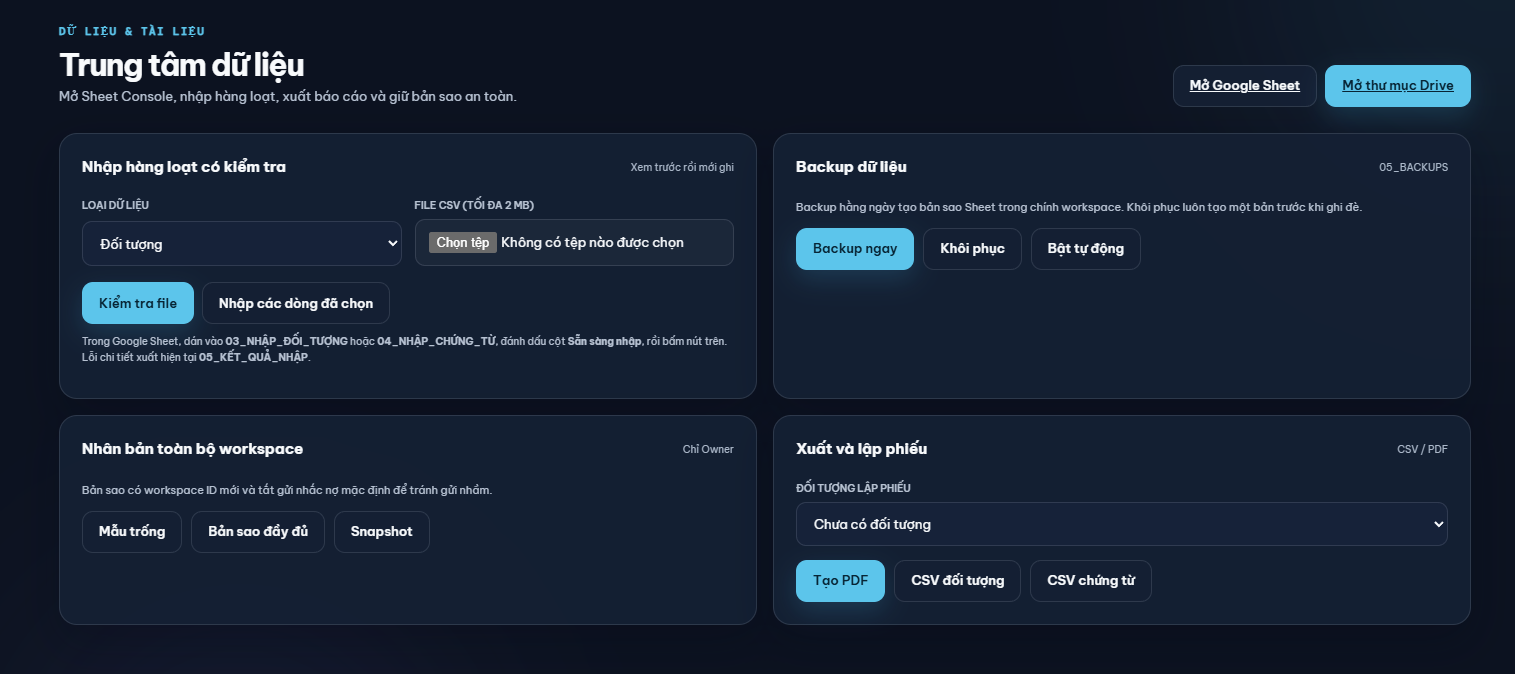
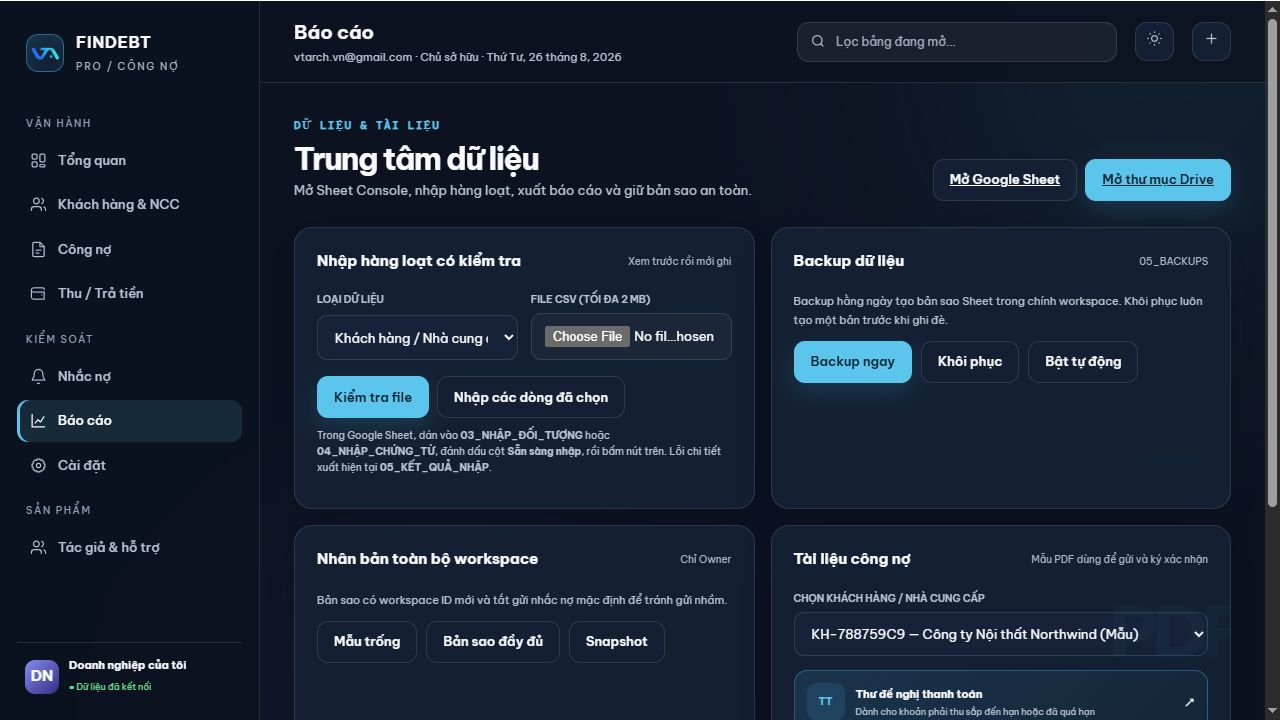
docs: add current app screenshots to user guide

diff --git a/tests/docs.test.js b/tests/docs.test.js
@@ -28,11 +28,21 @@ describe('user guide assets', () => {
     const source = fs.readFileSync(guidePath, 'utf8');
     [
       '01-dashboard.png',
+      '02-partners.png',
+      '03-add-partner.png',
+      '04-debts.png',
+      '05-add-document.png',
+      '06-record-payment.png',
+      '07-reminders.png',
       '08-reports.png',
       '08a-payment-notice.png',
-      '08b-reconciliation.png'
+      '08b-reconciliation.png',
+      '09-settings.png',
+      '09b-bank-account.png',
+      '10-mobile-dashboard.png',
+      '10b-mobile-menu.png',
+      '11-about-support.png'
     ].forEach(image => expect(source).toContain(image));
-    ['02-partners.png', '04-debts.png', '09-settings.png', '10-mobile-dashboard.png'].forEach(image => expect(source).not.toContain(image));
     expect(source).toContain('FINDEBT PRO 2.8.1');
     expect(source).toContain('deployment `@42`');
     expect(source).toContain('| Đối tác | Báo cáo & dữ liệu |');
